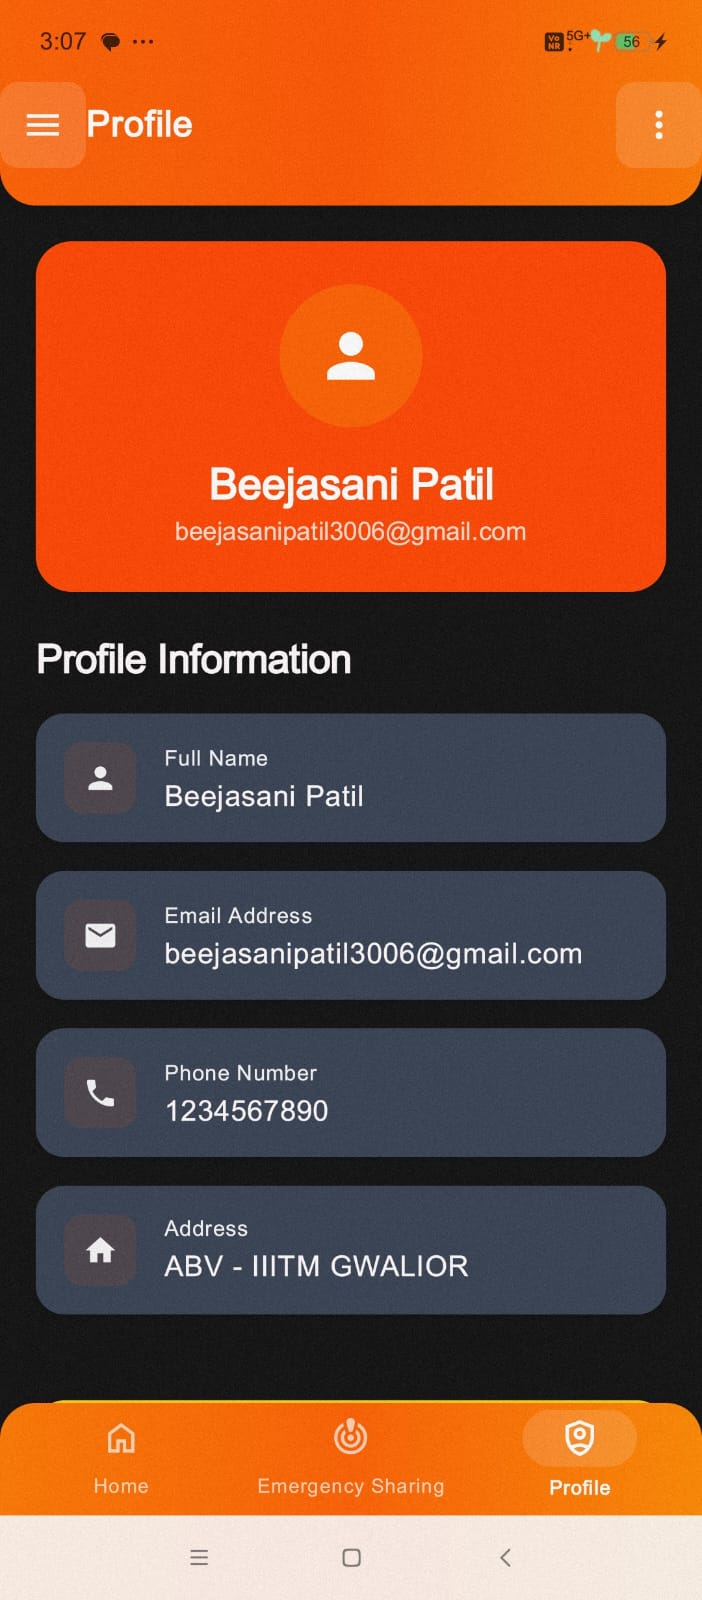
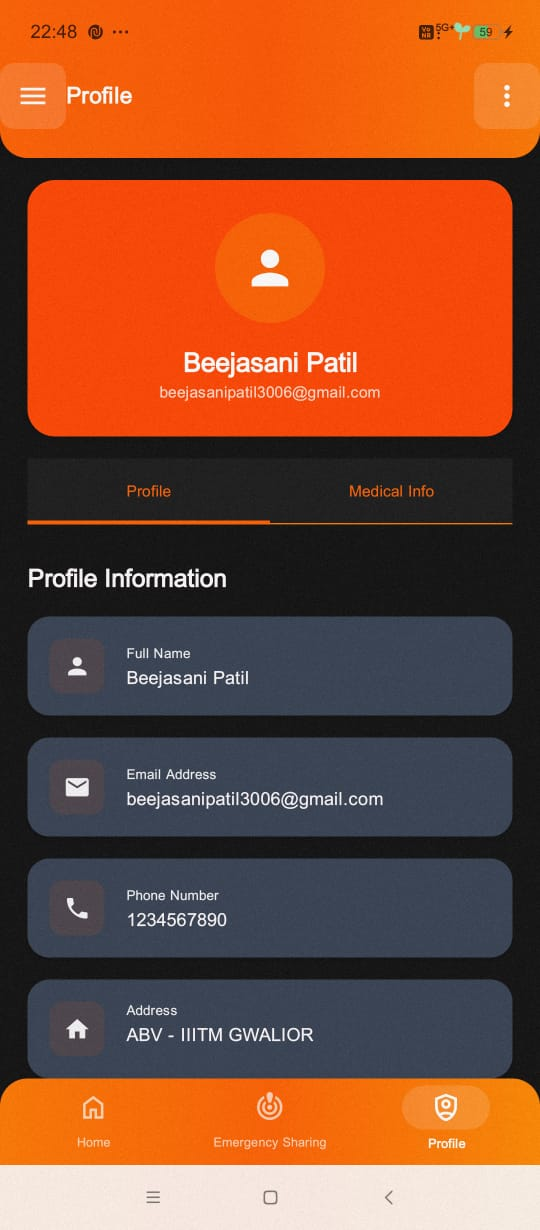
Updated README with screenshots

diff --git a/README.md b/README.md
@@ -1,0 +1,120 @@
+# 🚨 NirbhayX  
+**Tap Fearlessly. Live NirbhayX.**
+
+[![Platform](https://img.shields.io/badge/platform-Android-blue)]()  
+[![Language](https://img.shields.io/badge/language-Kotlin-purple)]()  
+[![Architecture](https://img.shields.io/badge/architecture-MVVM-green)]()
+
+---
+
+## 📖 Project Description
+NirbhayX is a **modern personal safety application** designed to keep users secure and connected during emergencies.  
+It enables **instant SOS alerts via power button**, **real-time location sharing**, **background audio/video recording**, **offline SMS alerts**, and **fake call escape tools** — all in a **bold, user-friendly Android app**.  
+
+> [!IMPORTANT]
+> Even without internet, your emergency contacts will receive SMS alerts using stored contact data from the local Room Database.
+
+---
+
+## 📸 Screenshots
+
+### **Core Features**
+| Home Screen | SOS Trigger | Profile |
+|-------------|-------------|---------|
+| ![Home Light](screenshots/light/home.jpg) ![Home Dark](screenshots/dark/home.jpg) | ![SOS](screenshots/sos.jpg) | ![Profile Light](screenshots/light/profile.jpg) ![Profile Dark](screenshots/dark/profile.jpg) |
+
+| Emergency Sharing | Emergency Contacts | Medical Info |
+|-------------------|--------------------|--------------|
+| ![Sharing Light](screenshots/light/sharing.jpg) ![Sharing Dark](screenshots/dark/sharing.jpg) | ![Contacts Light](screenshots/light/contacts.jpg) ![Contacts Dark](screenshots/dark/contacts.jpg) | ![Medical Light](screenshots/light/medical_info.jpg) ![Medical Dark](screenshots/dark/medical_info.jpg) |
+
+---
+
+### **Additional Features**
+| Safety Tips | Fake Call | Widgets / Lock Screen |
+|-------------|-----------|-----------------------|
+| ![Safety Tips](screenshots/light/tips.jpg) | ![Fake Call Light](screenshots/light/fakecall.jpg) ![Fake Call UI](screenshots/fakecall.jpg) | ![Widgets](screenshots/widget.jpg) |
+
+| Notifications | Community Safety Hub *(UI done, backend planned)* | Settings |
+|---------------|---------------------------------------------------|----------|
+| ![Notifications](screenshots/notifications.jpg) | ![Community](screenshots/light/community.jpg) | ![Settings Light](screenshots/light/settings.jpg) |
+
+---
+
+### **Auth & Branding**
+| Login | App Logo                       | 
+|-------|--------------------------------|
+| ![Login](screenshots/light/login.jpg) | ![Logo](screenshots/demo_thumbnail.jpg) |
+
+---
+
+## 🌐 Hosted URL
+Not hosted — distributed as **APK installation**.
+[📥 Download NirbhayX APK from Google Drive](https://drive.google.com/file/d/1q8-bdyoa6VkzULgO9xhv5InC396IB3Ym/view?usp=sharing)
+
+
+---
+
+## ✅ Features Implemented
+
+### **Frontend**
+- 🎨 Modern UI with **Jetpack Compose** & Material 3
+- 🌗 **Light/Dark theme switching**
+- 🧭 Persistent navigation (Drawer + Bottom Navigation + Modal Sheet)
+- 🛡 UI ready for **Community Safety Hub** *(backend integration planned)*
+- 📌 **App Widget** & **Lock Screen Notifications**
+- 📞 **Fake Call Feature** with customizable caller ID & timer
+- 🌏 Multilingual support *(planned)*
+
+### **Backend**
+- 🔐 Secure Authentication & profile management (**Firebase Auth**)
+- 🚨 **Prominent SOS Button** for instant alerts
+- 📍 **Real-Time Location Sharing** with pre-set contacts
+- 🎥 **Background Audio/Video Recording** on SOS trigger
+- ☁ **Firebase Firestore** for cloud data
+- 💾 **Room Database** for offline storage of contacts/logs
+- 📂 **Firebase Storage** for media storage
+- 📜 Detailed **Activity Logs** for all alerts & actions
+- 🚑 **Medical Information** Storage & Display on Lock Screen (blood type, allergies, emergency contacts — accessible during emergencies)
+
+---
+
+## 🛠 Tech Stack
+- **Language**: Kotlin  
+- **UI**: Jetpack Compose, Material 3  
+- **Architecture**: MVVM  
+- **Database**: Room Database, Firebase Firestore  
+- **Backend Services**: Firebase Auth, Firebase Storage  
+- **Others**: OneSignal SDK, Google Play Services Location  
+
+---
+
+## ⚙ Local Setup
+
+### **Prerequisites**
+- Android Studio **Giraffe+**
+- Java 17+
+- Firebase Project setup
+
+### **Steps**
+1. Clone the repo:
+   ```bash
+   git clone https://github.com/your-username/nirbhayx.git
+
+### Steps to Setup the Project Locally
+1. Open the project in **Android Studio**.
+2. Place `google-services.json` in the `/app` folder.
+3. Sync **Gradle**.
+4. Build and run on an Android device or emulator (**Min SDK 21**).
+5. *(Optional)* To test **SMS alerts offline** — grant **SMS** & **CALL** permissions on the device and add emergency contacts in-app.
+
+---
+
+## Team Members
+- **Beejasani S. Patil** *(Solo Developer — Android & Backend)*
+
+---
+
+## Demo Video
+- **Video Link:** `demo/demo.mp4` *(placeholder in repo)*  
+- **GitHub Preview:**  
+![Watch the demo](screenshots/demo_thumbnail.jpg)
